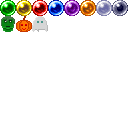
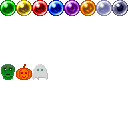
Balls accept hex values
Also cleaned up a bit of code in Ball.cpp

Changed region(s): [[0.0, 0.5, 0.375, 0.625], [0.0, 0.125, 0.375, 0.25]]

diff --git a/02-Bubble/Scene_Menu.cpp b/02-Bubble/Scene_Menu.cpp
@@ -100,7 +100,9 @@ int Scene_Menu::update(int deltaTime)
 	switch (_state) {
 		case FADE_IN:
 			_fadeTime += deltaTime;
-			//SoundManager::instance().setMusicVolume(_fadeTime / FADE_TIME);
+			//Increase music according to fade level
+			//SoundManager::instance().setMusicVolume(_fadeTime / FADE_IN_TIME);
+			//Fade in has finished. Prepare fade with time for fade_out and update state
 			if (_fadeTime >= FADE_IN_TIME) {
 				_fadeTime = (int)FADE_OUT_TIME;
 				_state = RUNNING;
@@ -108,7 +110,9 @@ int Scene_Menu::update(int deltaTime)
 			break;
 		case FADE_OUT:
 			_fadeTime -= deltaTime;
-			//SoundManager::instance().setMusicVolume(_fadeTime / FADE_TIME);
+			//Decrease music according to fade level
+			//SoundManager::instance().setMusicVolume(_fadeTime / FADE_OUT_TIME);
+			//Fade out has finished. We can safely start the level now
 			if (_fadeTime <= 0) {
 				_fadeTime = 0;
 				_state = OPEN_LEVEL;
@@ -118,7 +122,7 @@ int Scene_Menu::update(int deltaTime)
 			break;
 	}
 
-	//Float effect
+	//Float effect for logo
 	_logo->setPosition(glm::vec2(
 		(SCREEN_WIDTH - LOGO_SIZE.x) / 2.f,
 		(SCREEN_HEIGHT - LOGO_SIZE.y) / 2.f + 2*sin(currentTime/500) - 95.f

diff --git a/02-Bubble/Ball.cpp b/02-Bubble/Ball.cpp
@@ -12,18 +12,13 @@ Ball::Ball(const int &size, const glm::vec2 & sizeInSpritesheet,  Texture *sprit
 
 void Ball::init(int color, const glm::vec2 & position)
 {
-	_color = color;
-	//Set texture according to color code (x = 1.f sheet size / 8 different colors * color code)
-	_sprite->setTexturePosition(glm::vec2(1.f/8 * color, 0.f));
+	setColor(color);
 	setPosition(position);
 }
 
 void Ball::update(int & deltaTime)
 {
-	/*if (_falling) {
-		_position = glm::vec2(_position.x + _speed.x*deltaTime / 200, _position.y + _speed.y*deltaTime / 200);
-		_speed = glm::vec2(_speed.x*0.95f, _speed.y*1.2f);
-	}*/
+	
 }
 
 void Ball::render()
@@ -39,7 +34,13 @@ int Ball::getColor()
 void Ball::setColor(int color)
 {
 	_color = color;
-	_sprite->setTexturePosition(glm::vec2(1.f / 8 * color, 0.f));
+	//Set texture according to color code (x = ball size * color code, y = )
+	_sprite->setTexturePosition(
+		_sizeInSpritesheet *
+		//spritesize * color % 8 to get the column, spritesize * 4 * (color/8) to get the row
+		//Rows [1..3] saved for sprite animations, so row will be either 0 or 4
+		glm::vec2((float)(color % 8), 4.f * (color / 8))
+	);
 }
 
 int Ball::getSize()

diff --git a/02-Bubble/BallManager.cpp b/02-Bubble/BallManager.cpp
@@ -83,7 +83,7 @@ void BallManager::launchHeldBall(Ball_Held * heldBall, float angle)
 
 Ball * BallManager::getNewBall()
 {
-	int color = rand()%8;
+	int color = rand()%11;
 
 	Ball *b = new Ball(_ballPixelSize, _ballTexSize, _spritesheet, _shaderProgram);
 	b->init(color, glm::vec2(0.f, 0.f));
@@ -143,7 +143,12 @@ bool BallManager::readLevel(const string & levelFile, glm::vec2 &mapSize)
 		for (int i = 0; i<_matrixTileSize.x - j%2; i++)
 		{
 			fin.get(ballColor);
-			colorMatrix[iterated] = ballColor - int('0');
+			
+			//Parse hex values
+			if (ballColor >= int('A') && ballColor <= int('F')) colorMatrix[iterated] = ballColor - int('A') + 10;
+			else if (ballColor >= int('0') && ballColor <= int('9')) colorMatrix[iterated] = ballColor - int('0');
+			else colorMatrix[iterated] = 0;
+
 			iterated++;
 		}
 		fin.get(ballColor);

diff --git a/TileMap.cpp b/TileMap.cpp
@@ -95,6 +95,7 @@ bool TileMap::loadLevel(const string &levelFile)
 			if(tile == ' ')
 				map[j*mapSize.x+i] = 0;
 			else
+				//Parse hex values
 				if (tile >= int('A') && tile <= int('F')) map[j*mapSize.x + i] = tile - int('A') + 10;
 				else if (tile >= int('0') && tile <= int('9')) map[j*mapSize.x+i] = tile - int('0');
 				else map[j*mapSize.x + i] = 0;

diff --git a/02-Bubble/Ball_Held.cpp b/02-Bubble/Ball_Held.cpp
@@ -11,6 +11,7 @@ Ball_Held::Ball_Held(ShaderProgram & shaderProgram, Ball * b)
 	int size = b->getSize();
 	setSize(size);
 	//setSize(glm::vec2(b->getSize().x,b->getSize().y));
+
 }
 
 void Ball_Held::init(const glm::vec2 &aimerPos, const glm::vec2 &aimerSize) {
